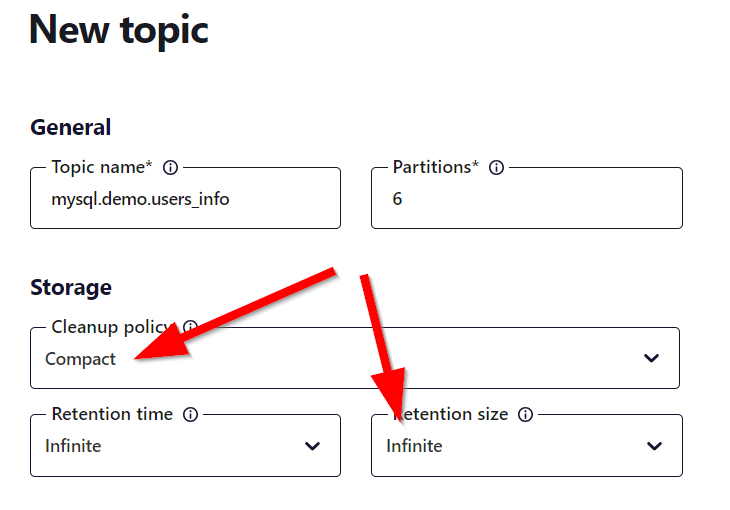
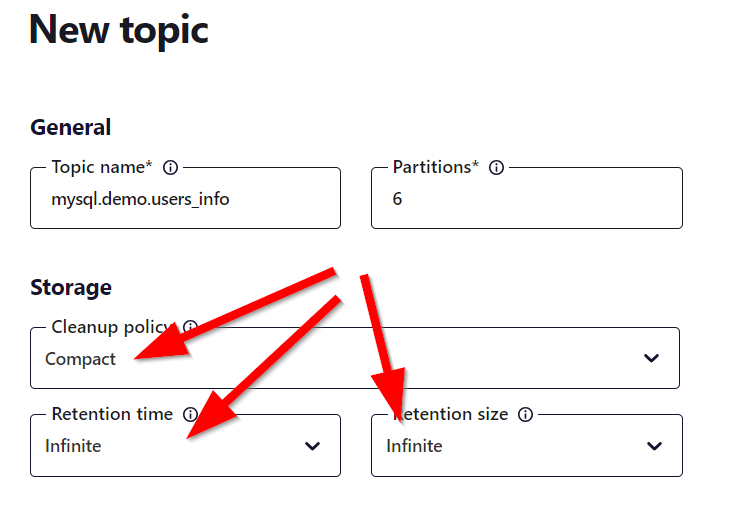
add and update images

Changed region(s): [[0.2411, 0.5588, 0.4822, 0.8824]]

diff --git a/connectors-mongodb/README.md b/connectors-mongodb/README.md
@@ -224,6 +224,10 @@ An environment contains Confluent clusters and its deployed components such as C
 
 1. Use the following parameters to configure your connector. **snapshot.mode** is an advanced configuration on the second screen. **output.data.format** _must_ be avro, but the **output record key format** should be JSON. The MySQL Standard port number is **3306**.
 
+![image info](./images/cdc-setup.png)
+
+![image info](./images/cdc-setup-2.png)
+
 ```
 {
   "name": "MySqlCdcSourceConnector_0",
@@ -235,7 +239,7 @@ An environment contains Confluent clusters and its deployed components such as C
     "kafka.api.secret": "<your_secret>",
     "database.hostname": "<provided>.mysql.database.azure.com",
     "database.port": "3306",
-    "database.user": "flexadmin",
+    "database.user": "labuser",
     "database.password": "<database_password>",
     "database.server.name": "mysql",
     "database.ssl.mode": "preferred",
